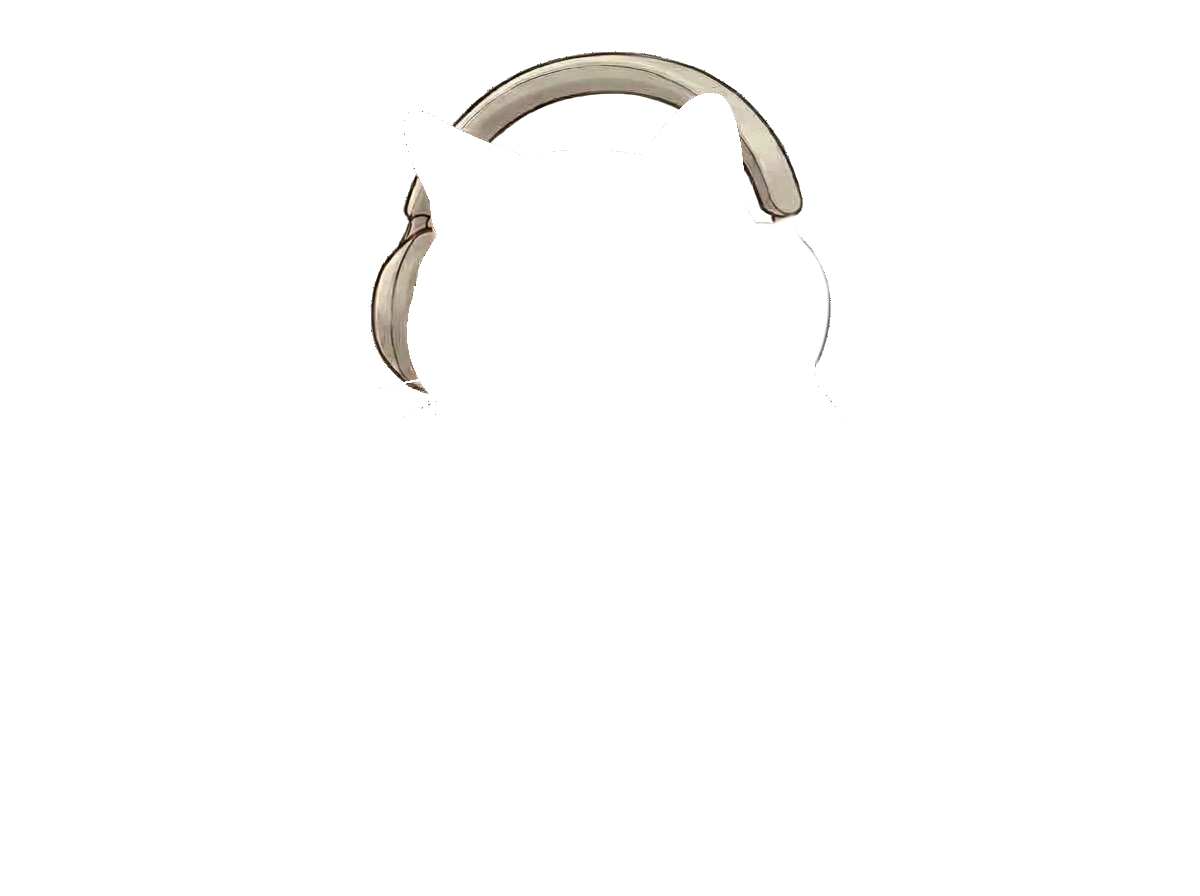
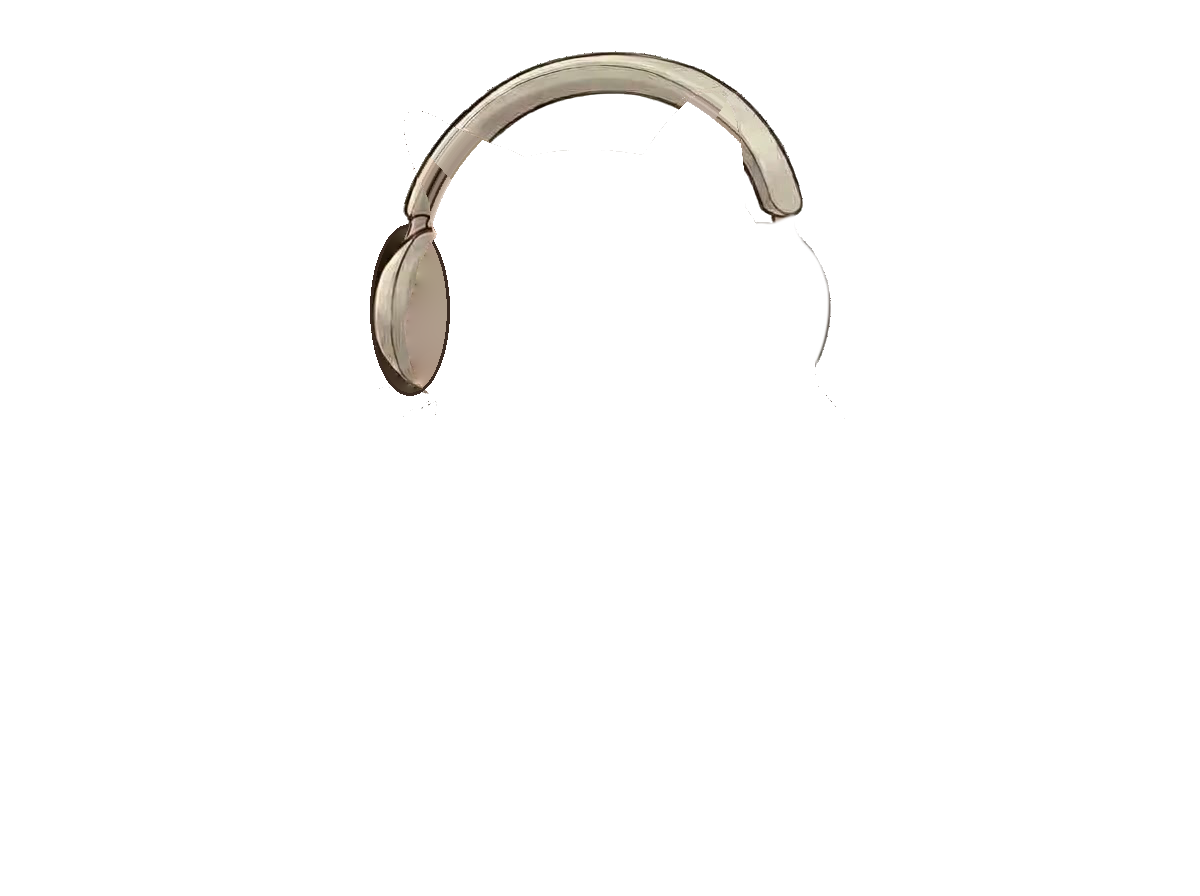
拆图：尾巴按实际后背分开；支持 no_arms.png；补全内置耳机的头梁和左耳罩

Changed region(s): [[0.3083, 0.25, 0.4008, 0.4375], [0.3392, 0.125, 0.4008, 0.25], [0.555, 0.0938, 0.6167, 0.1562]]

diff --git a/Sources/Cutter.swift b/Sources/Cutter.swift
@@ -79,6 +79,9 @@ enum Cutter {
 
     static func luma(_ v: SIMD4<Float>) -> Float { (v.x + v.y + v.z) / 3 }
 
+    /// 两点颜色差得明显。
+    static func differs(_ a: SIMD4<Float>, _ b: SIMD4<Float>) -> Bool { let d = a - b; return max(d.max(), -d.min()) > 0.16 }
+
     /// 用扩散填补挖空区域，只取亮度在 `pad` 内的桌垫作边界（忽略描边与透明处），并补上被挡住的桌垫上沿。
     static func inpaint(_ a: Raster, _ m: [Float], pad: ClosedRange<Float> = 0.62...1,
                  edge: (P, P) = (P(x: 752, y: 653), P(x: 862, y: 676)), ink: SIMD4<Float> = SIMD4(0.24, 0.16, 0.13, 1)) -> Raster {
@@ -172,17 +175,22 @@ enum Cutter {
         return o
     }
 
-    /// 尾巴所在处：身体右缘之外、桌沿线之上。
-    static func inTail(_ x: Int, _ y: Int) -> Bool {
+    /// 模板里身体右缘再往外留一点，逐行（y 280…689）。
+    static let backEdge: [Double] = (280..<690).map { y in
         let edge: [(Double, Double)] = [(280, 780), (385, 820), (440, 854), (500, 884), (550, 902), (600, 912), (660, 915), (690, 916)]
-        guard y >= 280, y < 690, Double(y) < 659 + 0.176 * Double(x - 910) else { return false }
         let i = edge.lastIndex { $0.0 <= Double(y) }!, a = edge[i], b = edge[min(i + 1, edge.count - 1)]
         let t = b.0 > a.0 ? (Double(y) - a.0) / (b.0 - a.0) : 0
-        return Double(x) > a.1 + (b.1 - a.1) * t + (y < 604 ? 16 : 6)
+        return a.1 + (b.1 - a.1) * t + (y < 604 ? 16 : 6)
     }
-    static func tailless(_ a: Raster) -> Raster {
+
+    /// 尾巴所在处：身体右缘之外、桌沿线之上。`back` 是这只猫逐行的身体右缘。
+    static func inTail(_ x: Int, _ y: Int, back: [Double] = backEdge) -> Bool {
+        guard y >= 280, y < 690, Double(y) < 659 + 0.176 * Double(x - 910) else { return false }
+        return Double(x) > back[y - 280]
+    }
+    static func tailless(_ a: Raster, back: [Double] = backEdge) -> Raster {
         var o = a
-        for y in 280..<690 { for x in 780..<1100 where inTail(x, y) { o[x, y] = .zero } }
+        for y in 280..<690 { for x in 780..<1100 where inTail(x, y, back: back) { o[x, y] = .zero } }
         return o
     }
 
@@ -204,20 +212,93 @@ enum Cutter {
     /// 四张整帧图。
     struct Cat {
         let idle: Raster, typing: Raster, cover: Raster, sleep: Raster
+        /// 这只猫逐行的身体右缘：比模板胖的，以实际轮廓为准。
+        let back: [Double]
+        /// 可选的 `no_arms.png`：拿掉两只前爪、胸口画完整的身体。没有时用捂眼那张补。
+        let bare: Raster?
+        /// 按每只猫的实际样子找手臂范围；为假时只用模板轮廓（生成内置原版时用，保证不变）。
+        var adaptive = true
 
         typealias P = Cutter.P
 
+        init(idle: Raster, typing: Raster, cover: Raster, sleep: Raster, bare: Raster? = nil) {
+            (self.idle, self.typing, self.cover, self.sleep, self.bare) = (idle, typing, cover, sleep, bare)
+            back = Self.measureBack(idle)
+        }
+
+        /// 每一行从身体里往右找，第一段透明就是后背的边；身体和尾巴连在一起的行（尾巴根部）沿用上一行。
+        static func measureBack(_ f: Raster) -> [Double] {
+            var edges = backEdge, last: Double?
+            for (i, y) in (280..<690).enumerated() {
+                let template = backEdge[i]
+                var x = Int(template) - 40
+                while x < W, f[x, y].w > 0.3 { x += 1 }
+                // 跑太远、或比上一行突然外扩很多，说明连着尾巴
+                let limit = min(template + 60, (last ?? template + 48) + 12)
+                let found = x > Int(template) - 40 && Double(x) + 2 < limit ? Double(x) + 2 : nil
+                if let found { last = found }
+                edges[i] = max(template, found ?? last ?? template)
+            }
+            return edges
+        }
+
+        /// 补身体用的底：有 `no_arms` 用它，否则用捂眼那张。
+        var reference: Raster { bare ?? cover }
+
+        /// 右臂（画面左边那只）在这一帧里的实际范围。没有 `no_arms` 时只认伸出身体轮廓的部分（捂眼图里那里是空的）；
+        /// 有 `no_arms` 时，和它颜色不同的也算。最后补上中间的洞，只留连着爪子的那一块。
+        func rightArmRegion(_ f: Raster) -> [Float] {
+            guard adaptive else { return [Float](repeating: 0, count: W * H) }
+            let zone = zip(mask(idleL, grow: 30), mask(armL, grow: 30)).map { max($0, $1) }, ref = reference
+            let x0 = 270, x1 = 520, y0 = 440, y1 = 650
+            var hit = [Bool](repeating: false, count: W * H)
+            for y in y0..<y1 { for x in x0..<x1 {
+                let i = y * W + x
+                guard zone[i] > 0, f.px[i].w > 0.3, !onDesk(x, y) else { continue }
+                hit[i] = ref.px[i].w < 0.3 || bare != nil && Cutter.differs(f.px[i], ref.px[i])
+            } }
+            for _ in 0..<2 {  // 连起来
+                let s = hit
+                for y in y0 + 1..<y1 - 1 { for x in x0 + 1..<x1 - 1 where !s[y * W + x] {
+                    let i = y * W + x
+                    if s[i - 1] || s[i + 1] || s[i - W] || s[i + W] { hit[i] = true }
+                } }
+            }
+            func inside(_ j: Int) -> Bool { let x = j % W, y = j / W; return x >= x0 && x < x1 && y >= y0 && y < y1 }
+            var outside = [Bool](repeating: false, count: W * H), queue: [Int] = []  // 从框边往里找空白，剩下的是手臂和它包住的洞
+            for y in y0..<y1 { for x in x0..<x1 where (x == x0 || x == x1 - 1 || y == y0 || y == y1 - 1) && !hit[y * W + x] { outside[y * W + x] = true; queue.append(y * W + x) } }
+            while let i = queue.popLast() {
+                for j in [i - 1, i + 1, i - W, i + W] where inside(j) && !outside[j] && !hit[j] { outside[j] = true; queue.append(j) }
+            }
+            // 只留最大的一块，去掉零碎的点
+            var label = [Int](repeating: -1, count: W * H), sizes: [Int] = []
+            for y in y0..<y1 { for x in x0..<x1 {
+                let start = y * W + x
+                guard !outside[start], label[start] < 0 else { continue }
+                var stack = [start], n = 0
+                label[start] = sizes.count
+                while let i = stack.popLast() {
+                    n += 1
+                    for j in [i - 1, i + 1, i - W, i + W] where inside(j) && !outside[j] && label[j] < 0 { label[j] = sizes.count; stack.append(j) }
+                }
+                sizes.append(n)
+            } }
+            guard let biggest = sizes.indices.max(by: { sizes[$0] < sizes[$1] }), sizes[biggest] > 400 else { return [Float](repeating: 0, count: W * H) }
+            return label.map { $0 == biggest ? 1 : 0 }
+        }
+
         /// 双臂所在处换成桌面或透明，肩根保留。
         func armless(_ f: Raster) -> Raster {
-            let mask0 = zip(mask(armL, grow: 4), mask(idleL, grow: 4)).map { max($0, $1) }
+            let arm = rightArmRegion(f), ref = reference
+            let mask0 = zip(zip(mask(armL, grow: 4), mask(idleL, grow: 4)).map { max($0, $1) }, arm).map { max($0, $1) }
             let resting = rightArmRests
-            var o = mix(f, cover, mask(armM, grow: 3, blur: 1))
-            o = mix(o, cover, mask0)
+            var o = mix(f, ref, mask(armM, grow: 3, blur: 1))
+            o = mix(o, ref, mask0)
             o = trim(o)
             for y in 440..<640 { for x in 300..<500 where mask0[y * W + x] > 0 {
-                if x < 461, y < 572 { o[x, y] = .zero }                                  // cover 里抬起的左臂
+                if x < 461, y < 572, bare == nil { o[x, y] = .zero }                     // cover 里抬起的左臂
                 if x >= 458 && y < 548 || hypot(Double(x) - 458, Double(y) - 504) < 37, !resting { o[x, y] = f[x, y] }  // 肩根保持不动
-                if resting { o[x, y] = o[x, y] * (1 - ruff[y * W + x]) + f[x, y] * ruff[y * W + x] }
+                if resting { let r = ruff[y * W + x] * (1 - arm[y * W + x]); o[x, y] = o[x, y] * (1 - r) + f[x, y] * r }
             } }
             return o
         }
@@ -245,19 +326,22 @@ enum Cutter {
         var tail: Raster {
             func area(_ f: Raster) -> Int {
                 var n = 0
-                for y in 280..<690 { for x in 780..<1100 where inTail(x, y) && f[x, y].w > 0.5 { n += 1 } }
+                for y in 280..<690 { for x in 780..<1100 where inTail(x, y, back: back) && f[x, y].w > 0.5 { n += 1 } }
                 return n
             }
             let f = area(typing) > area(idle) * 102 / 100 ? typing : idle
             var o = Raster()
-            for y in 280..<690 { for x in 780..<1100 where inTail(x, y) { o[x, y] = f[x, y] } }
+            for y in 280..<690 { for x in 780..<1100 where inTail(x, y, back: back) { o[x, y] = f[x, y] } }
             for y in 606..<666 { for x in 878..<924 { o[x, y] = o[924 + (924 - x), y] } }
             return o
         }
 
         /// 肩头：叠在右臂根部之上。一般只在内收时出现，朝手臂一侧羽化；右臂搭着的画法里是一直盖着的鬃毛。
         var shoulder: Raster {
-            if rightArmRests { return cut(idle, ruff) }
+            if rightArmRests {  // 只留毛，不带手臂
+                let arm = rightArmRegion(idle)
+                return cut(bare ?? idle, zip(ruff, arm).map { $0 * (1 - $1) })
+            }
             var o = cut(idle, mask(idleL, grow: 2))
             for y in 0..<H { for x in 0..<W where o[x, y].w > 0 {
                 o[x, y] *= Float(max(0, min(1, (50 - hypot(Double(x) - 462, Double(y) - 496)) / 14)))
@@ -299,7 +383,7 @@ enum Cutter {
             let full = resting
                 ? pts([414,499, 405,504, 390,512, 370,522, 352,533, 335,540, 324,547, 314,558, 308,570, 307,582, 310,592, 318,601, 328,609, 340,613, 352,612, 358,610, 368,612, 380,610, 392,604, 402,599, 412,594, 430,593, 450,594, 470,590, 486,588, 486,566, 470,552, 456,540, 446,526, 436,514, 424,506])
                 : pts([443,462, 428,480, 402,488, 376,500, 352,519, 337,545, 330,575, 329,598, 335,616, 349,628, 368,634, 386,630, 400,624, 411,613, 416,600, 418,588, 440,585, 470,583, 496,580, 498,540, 490,500, 462,476])
-            let src = cut(typing, mask(full))
+            let src = cut(typing, zip(mask(full), rightArmRegion(typing)).map { max($0, $1) })
             var o = Raster(width: 140, height: Int(table.last!.0))
             for y in 0..<o.h {
                 let (p, v) = bezier(table.first { $0.0 >= CGFloat(y) }!.1)

diff --git a/art/cut.swift b/art/cut.swift
@@ -14,13 +14,14 @@ extension Cutter {
 
         // ———— 原版：十四张成品图 ————
 
-        let cat = Cat(idle: load("frames/idle"), typing: load("frames/type_both"), cover: load("frames/cover_eyes"), sleep: load("frames/sleep"))
+        var cat = Cat(idle: load("frames/idle"), typing: load("frames/type_both"), cover: load("frames/cover_eyes"), sleep: load("frames/sleep"))
+        cat.adaptive = false  // 原版只按模板拆，保证与之前一致
         let wider = P(x: 84, y: 20)
         var desk = mask(pts([670,640, 915,640, 915,870, 670,870]), smooth: false)
         for y in 640..<H { for x in 660..<W where Double(y) <= 0.195 * Double(x - 840) + 656 { desk[y * W + x] = 0 } }
         let hole = mask(mouseHole)
-        let plate = tailless(widenPad(inpaint(mix(cat.armless(cat.idle), cat.cover, desk), hole), by: wider))
-        let plateCover = tailless(widenPad(inpaint(trim(cat.cover), hole), by: wider))
+        let plate = tailless(widenPad(inpaint(mix(cat.armless(cat.idle), cat.cover, desk), hole), by: wider), back: cat.back)
+        let plateCover = tailless(widenPad(inpaint(trim(cat.cover), hole), by: wider), back: cat.back)
         save(plate.cg, "plate")
         save(plateCover.cg, "plate_cover")
         save(crop(cat.squint(0.38, tilt: -0.02), 400, 250, 290, 150), "eyes_focus")
@@ -74,7 +75,7 @@ extension Cutter {
         let cup = mask(pts(rim + [701,345, 706,368, 714,385, 725,397, 740,403, 760,404, 780,400, 797,389]), blur: 1)
         var back = Raster()
         for y in 0..<420 { for x in 360..<850 { back[x, y] = worn[x, y] * (1 - cat.idle[x, y].w) } }
-        part(cut(back, cup.map { 1 - $0 }), "gamer/headset_back")
+        part(completeHeadband(cut(back, cup.map { 1 - $0 })), "gamer/headset_back")
         part(cut(worn, cup), "gamer/headset")
 
         let desktop = knock(load("skins/gamer/cover_eyes"), seeds: holes)
@@ -83,6 +84,63 @@ extension Cutter {
         let empty = widenPad(inpaint(desktop, gamerHole, pad: 0.22...0.36, edge: (P(x: 740, y: 652), P(x: 870, y: 674)), ink: SIMD4(0.13, 0.11, 0.09, 1)), by: P(x: 108, y: 26))
         split(empty, grow: 2, pad: 0.22...0.36, to: "gamer")
         part(cut(desktop, mask(gamerMouse)), "gamer/mouse")
+    }
+
+    /// 原图里头梁被狸花猫的耳朵挡住、左耳罩被脸挡住，换别的头就露出空洞：头梁按弧线接上，左耳罩补成整块。
+    static func completeHeadband(_ a: Raster) -> Raster {
+        var o = a
+        let c = P(x: 585, y: 330)
+        func at(_ deg: Double, _ r: Double) -> P { P(x: c.x + r * cos(deg * .pi / 180), y: c.y - r * sin(deg * .pi / 180)) }
+        // 每个角度上头梁的内外半径；被挡住的角度头梁会变窄或断开
+        let angles = Array(stride(from: 24.0, through: 150.0, by: 0.25))
+        var band: [(Double, Double)?] = angles.map { deg in
+            var best: (Double, Double)?, start: Double?
+            for r in stride(from: 150.0, through: 320.0, by: 0.5) {
+                let p = at(deg, r), solid = a.sample(p).w > 0.5
+                if solid, start == nil { start = r }
+                if !solid, let s = start {
+                    if r - s > (best.map { $0.1 - $0.0 } ?? 0) { best = (s, r) }
+                    start = nil
+                }
+            }
+            return best
+        }
+        let widths = band.compactMap { $0.map { $0.1 - $0.0 } }.sorted(), full = widths[widths.count * 3 / 4]
+        for i in band.indices where (band[i].map { $0.1 - $0.0 } ?? 0) < full * 0.8 { band[i] = nil }
+        let known = band.indices.filter { band[$0] != nil }
+        for i in band.indices where band[i] == nil {
+            guard let lo = known.last(where: { $0 < i }), let hi = known.first(where: { $0 > i }) else { continue }
+            let near = i - lo < hi - i ? lo : hi, t = Double(i - lo) / Double(hi - lo), (a0, b0) = band[lo]!, (a1, b1) = band[hi]!
+            let (rin, rout) = (a0 + (a1 - a0) * t, b0 + (b1 - b0) * t), (sin, sout) = band[near]!
+            for r in stride(from: rin, through: rout, by: 0.5) {
+                let u = (r - rin) / max(rout - rin, 1), v = a.sample(at(angles[near], sin + u * (sout - sin)))
+                for d in [-0.15, 0, 0.15] {
+                    let p = at(angles[i] + d, r)
+                    if o[Int(p.x), Int(p.y)].w < v.w { o[Int(p.x), Int(p.y)] = v }
+                }
+            }
+        }
+        // 左耳罩：只剩外缘一条，按椭圆补满，内侧补一道描边
+        func inCup(_ x: Double, _ y: Double, grow: Double = 0) -> Bool { pow((x - 410) / (40 + grow), 2) + pow((y - 310) / (86 + grow), 2) < 1 }
+        var gap: [Int] = [], seed = SIMD4<Float>.zero, count: Float = 0
+        for y in 220..<400 { for x in 365..<455 where inCup(Double(x) + 0.5, Double(y) + 0.5) {
+            let i = y * W + x
+            if a.px[i].w < 0.9 { gap.append(i) } else if luma(a.px[i]) > 0.55 { seed += a.px[i]; count += 1 }
+        } }
+        var fill = o
+        for i in gap { fill.px[i] = seed / max(count, 1) }
+        for _ in 0..<400 { for i in gap {
+            var t = SIMD4<Float>.zero, n: Float = 0
+            for j in [i - 1, i + 1, i - W, i + W] where inCup(Double(j % W) + 0.5, Double(j / W) + 0.5) { t += fill.px[j]; n += 1 }
+            fill.px[i] += (t / n - fill.px[i]) * 1.5
+        } }
+        let ink = SIMD4<Float>(0x3B, 0x2B, 0x22, 255) / 255
+        for i in gap {
+            let x = Double(i % W) + 0.5, y = Double(i / W) + 0.5
+            let edge = !inCup(x, y, grow: -3.2)  // 离椭圆边 3 像素内画描边
+            o.px[i] = edge ? ink : fill.px[i]
+        }
+        return o
     }
 
     /// 键盘外沿，不含后面露出的桌垫。

diff --git a/Sources/Composer.swift b/Sources/Composer.swift
@@ -145,9 +145,10 @@ final class Composer {
 
     private func cook(_ pack: Pack, template: Pack, warn: (String) -> Void) throws -> CookedCat {
         let data = try Slot.cat.files.map { try Library.read(pack.file($0)) }
+        let bare = FileManager.default.fileExists(atPath: pack.file("no_arms").path) ? try Library.read(pack.file("no_arms")) : nil
         var hash = SHA256()
-        hash.update(data: Data("10".utf8))  // 拆图算法变了就加一
-        data.forEach { hash.update(data: $0) }
+        hash.update(data: Data("13".utf8))  // 拆图算法变了就加一
+        (data + [bare].compactMap { $0 }).forEach { hash.update(data: $0) }
         let key = hash.finalize().map { String(format: "%02x", $0) }.joined()
         let cached = Library.cache.appendingPathComponent(key, isDirectory: true)
         var cat: CookedCat
@@ -156,8 +157,9 @@ final class Composer {
             if let note = try? String(contentsOf: cached.appendingPathComponent("note.txt"), encoding: .utf8), !note.isEmpty { warn(note) }
         } else {
             let frames = try zip(Slot.cat.files, data).map { Raster(try Cutout.clean(Library.image($1, name: $0), name: $0)) }
-            let notes = try Self.check(frames, template: pack.id == template.id ? nil : template)
-            cat = Self.cut(Cutter.Cat(idle: frames[0], typing: frames[1], cover: frames[3], sleep: frames[2]))
+            let extra = try bare.map { Raster(try Cutout.clean(Library.image($0, name: "no_arms"), name: "no_arms")) }
+            let notes = try Self.check(frames + [extra].compactMap { $0 }, template: pack.id == template.id ? nil : template)
+            cat = Self.cut(Cutter.Cat(idle: frames[0], typing: frames[1], cover: frames[3], sleep: frames[2], bare: extra))
             Self.store(cat, at: cached, note: notes)
             if !notes.isEmpty { warn(notes) }
         }
@@ -171,7 +173,7 @@ final class Composer {
 
     /// 帧与帧对不齐就没法用；和模板差太多则提醒。
     private static func check(_ frames: [Raster], template: Pack?) throws -> String {
-        for (name, f) in zip(Slot.cat.files, frames).dropFirst() {  // 比耳朵和头顶，各帧里都不该动
+        for (name, f) in zip(Slot.cat.files + ["no_arms"], frames).dropFirst() {  // 比耳朵和头顶，各帧里都不该动
             var moved = 0, total = 0
             for y in stride(from: 40, to: 240, by: 2) { for x in stride(from: 380, to: 830, by: 2) {
                 let d = f[x, y] - frames[0][x, y]
@@ -192,7 +194,7 @@ final class Composer {
 
     static func cut(_ c: Cutter.Cat) -> CookedCat {
         typealias R = Raster
-        let cover = Cutter.tailless(Cutter.trim(c.cover))
+        let cover = Cutter.tailless(Cutter.trim(c.cover), back: c.back)
         /// 去掉桌面；腹部下缘用捂眼那张，没有桌沿。
         func torso(_ f: R) -> R {
             var o = f
@@ -214,7 +216,7 @@ final class Composer {
         func hex(_ v: SIMD4<Float>) -> Int { (0..<3).reduce(0) { $0 << 8 | Int(max(0, min(255, (v[$1] * 255).rounded()))) } }
         let joint = c.rightArmRests ? [] : near.isEmpty ? Look().joint : [hex(near[near.count * 2 / 3]), 0x3B2418]
         return CookedCat(images: [
-            "body": torso(Cutter.tailless(c.armless(c.idle))).cg,
+            "body": torso(Cutter.tailless(c.armless(c.idle), back: c.back)).cg,
             "body_cover": bodyCover.cg,
             "raised_arms": Cutter.cut(bodyCover, Cutter.raisedArms).cg,
             "tail": crop(c.tail, 860, 290, 240, 400),

diff --git a/docs/ART_BRIEF.md b/docs/ART_BRIEF.md
@@ -8,7 +8,7 @@
 
 | 想换 | 文件名 | 照着哪张画 |
 |---|---|---|
-| 猫 | `idle.png` `type_both.png` `sleep.png` `cover_eyes.png`，四张都要 | [art/frames/](../art/frames) 里的同名图 |
+| 猫 | `idle.png` `type_both.png` `sleep.png` `cover_eyes.png`，四张都要；可选 `no_arms.png` | [art/frames/](../art/frames) 里的同名图 |
 | 键盘 | `keyboard.png` | [Assets/packs/classic/](../Assets/packs/classic) 里的同名图 |
 | 桌垫 | `pad.png` | 同上 |
 | 鼠标 | `mouse.png` | 同上 |
@@ -41,12 +41,14 @@
 | `type_both` | 双手都在键盘上 |
 | `sleep` | 闭眼，其余同 `idle` |
 | `cover_eyes` | 双手捂眼 |
+| `no_arms`（可选） | 同 `idle`，但两只前爪都拿掉，胸口和肩膀画完整 |
 
 - **姿势照模板**：五官、手臂、爪子、尾巴的位置和模板偏差不超过几个像素。毛可以更蓬，耳朵可以更长，脸和身体的大轮廓别变太多。
 - 右手在 `type_both` 里画在敲键的位置，或和 `idle` 完全一样，两种都能认出来。后一种会让胸毛盖住手臂根部，适合长毛猫。
 - **C 眼睛**会被竖向压扁做眯眼，不画眼镜；**D 脸**睡觉时整块换成 `sleep`，除眼睛外两张必须一样。
 - **E 手臂**会旋转、拉长、弯曲：花纹简单，不要袖口、手环、图案；外轮廓有闭合的深色描边。
-- **F 右肩、G 尾巴根部**有接缝，毛色均匀，不放饰物。尾巴要完整，不能被裁掉尾尖。
+- **F 右肩、G 尾巴根部**有接缝，毛色均匀，不放饰物。尾巴要完整，不能被裁掉尾尖。后背比模板胖没关系，程序按实际轮廓分开身体和尾巴。
+- **体型和猫差得多（比如狗）时，强烈建议交 `no_arms.png`**。手臂挪开后，身体上原来被挡住的那块要靠它；没有这张图，程序只能拿捂眼那张去补，胸口对不上就会在肩膀附近露馅。
 - 身上已经画了围巾的猫不能再戴围巾，在 `skin.json` 里写 `{"cat": {"scarf": false}}`。想让猫能换围巾，就不要画围巾。
 
 ### K 键盘
@@ -89,6 +91,13 @@
 
 ```text
 把附件【type_both.png / sleep.png / cover_eyes.png】里的猫换成附件 idle.png 里这只，姿势照前者，花纹、毛、尾巴和 idle.png 完全一致。输出要求同上。
+```
+
+没有手臂的身体（可选，体型和猫差得多时建议做）：
+
+```text
+以附件 idle.png 为底图，只把两只前爪（前腿）整条拿掉，补画出原本被前爪挡住的胸口、肩膀和身体侧面，毛色花纹自然衔接。
+其余一个像素都不要动：头、尾巴、键盘、鼠标、桌垫的位置和样子完全不变。输出要求同上。
 ```
 
 键盘、桌垫、鼠标：

diff --git a/docs/CUSTOM_ART.md b/docs/CUSTOM_ART.md
@@ -9,7 +9,7 @@
 
    ```text
    素材/
-   ├── 缅因/          idle.png  type_both.png  sleep.png  cover_eyes.png
+   ├── 缅因/          idle.png  type_both.png  sleep.png  cover_eyes.png（可选 no_arms.png）
    ├── 薄荷键盘/      keyboard.png  mouse.png
    ├── 红帽子/        hat.png
    └── _模板/         原版和电竞的全部部件，照着改（下划线开头的文件夹不会被读取）
@@ -55,6 +55,7 @@
 程序按固定轮廓把四张图拆成身体、双臂、尾巴、眼睛。姿势和模板差太多会拆坏，有两条路：
 
 - 让图更贴近模板。大多数情况只是手臂或尾巴的位置偏了。
+- 多交一张 `no_arms.png`（拿掉两只前爪、胸口画完整的身体）。手臂的范围会按它和 `idle` 的差别找出来，身体也直接用它，肩膀附近基本不露馅。
 - 改 [Sources/Cutter.swift](../Sources/Cutter.swift) 里的轮廓（`armL` `armR` `armM` `idleL` `raisedArms` `ruff` `inTail`）再编译。换构图还要改：
 
 | 内容 | 位置 |
